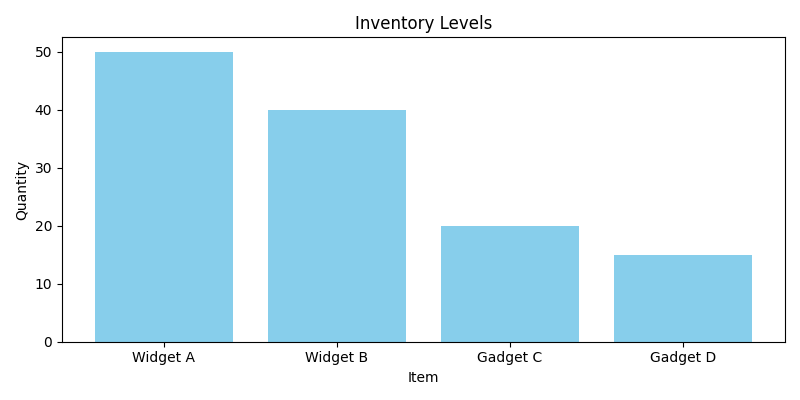
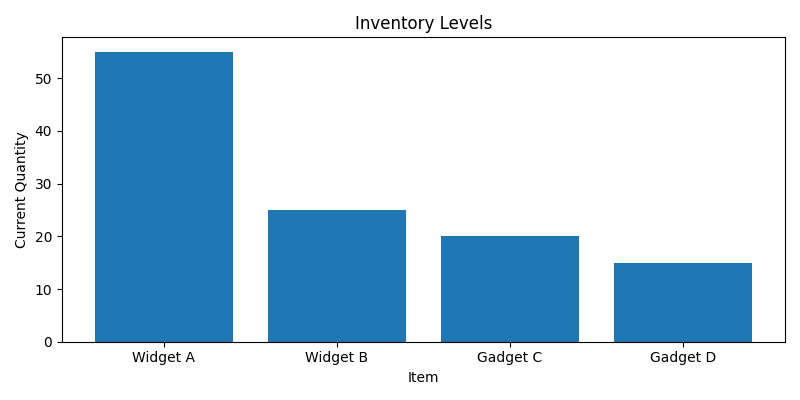
Minor tweaks
- Added exception handling for incorrect user input.
- Changed CSV style for more accurate data processing.
- Keeps track of Stock_IN and Stock_OUT
- Auto generates log and screenshots folder if one doesn't exist

diff --git a/inventory_system.py b/inventory_system.py
@@ -1,113 +1,181 @@
 import os
 import pandas as pd
 import matplotlib.pyplot as plt
-from utils import timestamp  # Import timestamp helper
+from utils import timestamp
 
-# Base directory (works no matter where script is run)
+# -----------------------------
+# Paths & Directories
+# -----------------------------
+
 BASE_DIR = os.path.dirname(os.path.abspath(__file__))
 
-# File paths
 INVENTORY_FILE = os.path.join(BASE_DIR, "sample_data", "inventory.csv")
-LOG_FILE = os.path.join(BASE_DIR, "logs", "activity.log")
+LOG_DIR = os.path.join(BASE_DIR, "logs")
+LOG_FILE = os.path.join(LOG_DIR, "activity.log")
 SCREENSHOT_DIR = os.path.join(BASE_DIR, "screenshots")
 
-# Ensure directories exist
-os.makedirs(os.path.join(BASE_DIR, "logs"), exist_ok=True)
-os.makedirs(os.path.join(BASE_DIR, "screenshots"), exist_ok=True)
+os.makedirs(LOG_DIR, exist_ok=True)
+os.makedirs(SCREENSHOT_DIR, exist_ok=True)
+
+
+# -----------------------------
+# Inventory Item Model
+# -----------------------------
 
 
 class InventoryItem:
-    """Represents a single inventory item"""
+    # Represents a single inventory item
 
-    def __init__(self, item_id, name, quantity, location):
+    def __init__(self, item_id, name, current, location):
         self.item_id = item_id
         self.name = name
-        self.quantity = quantity
+        self.current = current
         self.location = location
 
 
+# -----------------------------
+# Inventory System
+# -----------------------------
+
+
 class InventorySystem:
-    """Inventory system with check-in/out and automatic visualization"""
+    # Inventory system with logging and visualization
 
     def __init__(self, inventory_file):
         self.inventory_file = inventory_file
         self.load_inventory()
 
     def load_inventory(self):
+        # Load inventory CSV into memory
         self.df = pd.read_csv(self.inventory_file)
         self.items = {}
+
         for _, row in self.df.iterrows():
             self.items[row["item_id"]] = InventoryItem(
-                row["item_id"], row["item_name"], row["quantity"], row["location"]
+                item_id=row["item_id"],
+                name=row["item_name"],
+                current=row["current"],
+                location=row["location"],
             )
 
     def save_inventory(self):
+        # Persist inventory changes to CSV
         self.df.to_csv(self.inventory_file, index=False)
 
     def log_action(self, message):
+        # Append action to log file
         with open(LOG_FILE, "a") as f:
             f.write(f"{timestamp()} - {message}\n")
 
+    # -----------------------------
+    # Display & Visualization
+    # -----------------------------
+
     def display_inventory(self):
-        """Print table and plot bar chart"""
         print("\nCurrent Inventory:")
-        print(self.df[["item_id", "item_name", "quantity", "location"]])
+        print(
+            self.df[
+                ["item_id", "item_name", "current", "stock_in", "stock_out", "location"]
+            ].to_string(index=False)
+        )
         self.plot_inventory()
 
     def plot_inventory(self):
-        """Generate and save bar chart of inventory quantities"""
         plt.figure(figsize=(8, 4))
-        plt.bar(self.df["item_name"], self.df["quantity"], color="skyblue")
+        plt.bar(self.df["item_name"], self.df["current"])
         plt.title("Inventory Levels")
         plt.xlabel("Item")
-        plt.ylabel("Quantity")
+        plt.ylabel("Current Quantity")
         plt.tight_layout()
-        plt.savefig(os.path.join(SCREENSHOT_DIR, "inventory_levels.png"))
-        plt.show()
+
+        output_path = os.path.join(SCREENSHOT_DIR, "inventory_levels.png")
+        plt.savefig(output_path)
+        plt.close()
+
+    # -----------------------------
+    # Check-in / Check-out Workflow
+    # -----------------------------
 
     def check_in_out(self):
-        """Simulate QR scan workflow"""
         try:
-            item_id = int(input("Scan item (enter item_id): "))
+            while True:
+                raw_input = input("Scan item (enter item_id): ").strip()
+
+                if not raw_input.isdigit():
+                    print("Invalid item ID. Please enter a numeric item ID.")
+                    continue
+
+                item_id = int(raw_input)
+
+                if item_id not in self.items:
+                    print("Item ID does not exist in inventory.")
+                    continue
+
+                break
+
             if item_id not in self.items:
-                print("Item not found in inventory.")
+                print("Item not found.")
                 return
-            action = input("Action (add/remove): ").strip().lower()
+
+            while True:
+                action = input("Action (add/remove): ").strip().lower()
+                if action in {"add", "remove"}:
+                    break
+                print("Invalid action. Please enter only 'add' or 'remove'.")
+
             qty = int(input("Quantity: "))
 
+            if qty <= 0:
+                print("Quantity must be positive.")
+                return
+
             if action == "add":
-                self.df.loc[self.df["item_id"] == item_id, "quantity"] += qty
-                self.items[item_id].quantity += qty
+                self.df.loc[self.df["item_id"] == item_id, "stock_in"] += qty
+                self.df.loc[self.df["item_id"] == item_id, "current"] += qty
+                self.items[item_id].current += qty
+
                 self.log_action(
                     f"Added {qty} units to item {item_id} ({self.items[item_id].name})"
                 )
                 print(f"Added {qty} units to {self.items[item_id].name}")
+
             elif action == "remove":
-                self.df.loc[self.df["item_id"] == item_id, "quantity"] -= qty
-                self.items[item_id].quantity -= qty
+                if self.items[item_id].current < qty:
+                    print("Insufficient stock.")
+                    return
+
+                self.df.loc[self.df["item_id"] == item_id, "stock_out"] += qty
+                self.df.loc[self.df["item_id"] == item_id, "current"] -= qty
+                self.items[item_id].current -= qty
+
                 self.log_action(
                     f"Removed {qty} units from item {item_id} ({self.items[item_id].name})"
                 )
                 print(f"Removed {qty} units from {self.items[item_id].name}")
+
             else:
                 print("Invalid action.")
                 return
 
-            # Save inventory and update chart automatically
             self.save_inventory()
             self.plot_inventory()
 
         except ValueError:
-            print("Invalid input. Please enter numbers only.")
+            print("Invalid input. Please enter numeric values.")
+
+    # -----------------------------
+    # Main Loop
+    # -----------------------------
 
     def run(self):
-        """Main CLI loop"""
         while True:
             print("\n--- Inventory System ---")
             print("1. Display Inventory")
-            print("2. Check-in/Check-out item")
+            print("2. Check-in / Check-out")
             print("3. Exit")
+
             choice = input("Choose an option: ").strip()
+
             if choice == "1":
                 self.display_inventory()
             elif choice == "2":
@@ -116,8 +184,12 @@ class InventorySystem:
                 print("Exiting...")
                 break
             else:
-                print("Invalid choice. Please try again.")
+                print("Invalid option.")
 
+
+# -----------------------------
+# Entry Point
+# -----------------------------
 
 if __name__ == "__main__":
     system = InventorySystem(INVENTORY_FILE)
